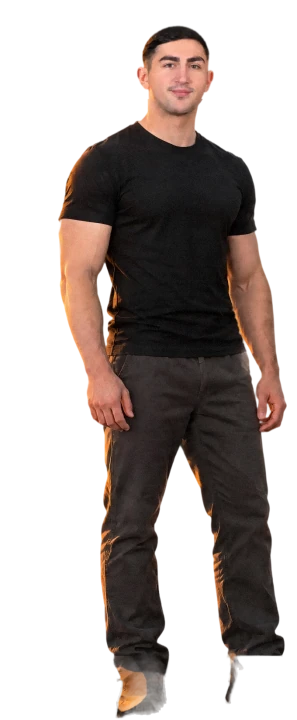
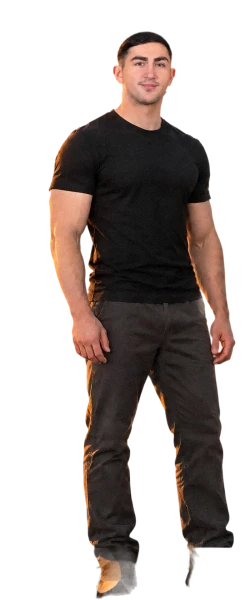
Winken: 64 Einzelbilder ohne Überblenden, Hand beim Heben komplett sichtbar, nachts heller

diff --git a/js/szene.js b/js/szene.js
@@ -522,12 +522,12 @@
      je Figur ein Tag- und ein Abendbild und für die Nacht die Bildfolge – der Hund hebt den Kopf und jault, Emre winkt
      („Tschüss“). Beides startet gemeinsam, sobald es Nacht ist und man weiterscrollt, und läuft dann in eigener Zeit ab
      (so sieht man es sicher, bevor endo Studio kommt); beim Hochscrollen läuft es rückwärts. */
-  var FIGUREN = { hund: { b: 318, h: 360, anzahl: 36, spalten: 6, fuss: 0.9921, oben: 0.0896, mitte: 0.4201, breite: 0.7716 }, emre: { b: 297, h: 720, anzahl: 30, spalten: 6, fuss: 0.9958, oben: 0.0364, mitte: 0.5801, breite: 0.7662 } };
-  var fig = { phase: 0, ziel: 0, laeuft: false, t: 0 }, FIG_DAUER = 3.6, lichtGold = 0, lichtBlau = 0, lichtNacht = 0;
+  var FIGUREN = { hund: { b: 318, h: 360, anzahl: 36, spalten: 6, fuss: 0.9921, oben: 0.0896, mitte: 0.4201, breite: 0.7716 }, emre: { b: 245, h: 600, anzahl: 64, spalten: 8, fuss: 0.9964, oben: 0.0531, mitte: 0.5794, breite: 0.7595 } };
+  var fig = { phase: 0, ziel: 0, laeuft: false, t: 0 }, FIG_DAUER = 4.4, lichtGold = 0, lichtBlau = 0, lichtNacht = 0;
   function figurLaden(name, folge) {
     var f = FIGUREN[name], b = new Image(); b.decoding = 'async';
     b.onload = function () { f[folge ? 'folge' : 'bild'] = b; f.zuletzt = ''; figurenZeichnen(); };
-    b.src = 'bilder/hero/figuren/' + name + (folge ? '-folge' : '') + '.webp?v=5';
+    b.src = 'bilder/hero/figuren/' + name + (folge ? '-folge' : '') + '.webp?v=6';
   }
   Object.keys(FIGUREN).forEach(function (k) { FIGUREN[k].zuletzt = ''; figurLaden(k, false); });
   /* die Bildfolgen (groß) erst nach dem Laden der Seite */
@@ -540,7 +540,7 @@
     tag:   { mul: [0.9, 0.91, 0.93], lift: [0, 0, 0], rim: [255, 246, 216], ra: 0.32 },
     gold:  { mul: [0.6, 0.46, 0.4], lift: [0.04, 0.02, 0.03], rim: [255, 182, 100], ra: 0.9 },
     blau:  { mul: [0.3, 0.34, 0.44], lift: [0.02, 0.03, 0.06], rim: [176, 196, 240], ra: 0.35 },
-    nacht: { mul: [0.2, 0.25, 0.37], lift: [0.03, 0.045, 0.08], rim: [170, 196, 255], ra: 0.6 }
+    nacht: { mul: [0.27, 0.32, 0.45], lift: [0.035, 0.05, 0.085], rim: [170, 196, 255], ra: 0.6 }
   };
   function figurLicht() {
     var l = { mul: [0, 0, 0], lift: [0, 0, 0], rim: [0, 0, 0], ra: 0 };
@@ -560,7 +560,8 @@
   function figurZeichnen(f, nr, l) {
     var c = f.leinwand; if (!c || !f.bild) return;
     if (!f.folge) nr = 0;
-    var n0 = Math.floor(nr), t = Math.round((nr - n0) * 12) / 12, n1 = Math.min(f.anzahl - 1, n0 + 1);
+    /* kein Überblenden zwischen Einzelbildern (das zeigte beim schnellen Heben zwei halbdurchsichtige Arme) – bei 64 Bildern läuft es so flüssig */
+    var n0 = Math.min(f.anzahl - 1, Math.round(nr)), t = 0, n1 = n0;
     var schluessel = n0 + '|' + t + '|' + lichtGold.toFixed(2) + '|' + lichtBlau.toFixed(2) + '|' + lichtNacht.toFixed(2);
     if (schluessel === f.zuletzt) return;
     f.zuletzt = schluessel;

diff --git a/index.html b/index.html
@@ -703,7 +703,7 @@ img { display: block; max-width: 100%; height: auto; }
   </nav>
 </footer>
 
-<script src="js/szene.js?v=24"></script>
+<script src="js/szene.js?v=25"></script>
 <script>
 /* Navigation beim Runterscrollen ausblenden, Inhalte einmal sanft einblenden */
 (function () {

diff --git a/LIESMICH.md b/LIESMICH.md
@@ -14,6 +14,11 @@
 
 
 
+
+## Winken mit 64 Bildern, ohne Überblenden (26.09.2026, 06:20, Claude Code)
+- `python figuren.py winken video/winken2-v1-4c32d096.mp4 0.4 4.9 64` (5. Argument = Bildanzahl): `emre-folge.webp` = 8 Spalten × 8 Zeilen à 248×600 (Qualität 80). Masken-Cache `video/winken-masken-winken2-v1-4-64.npz`.
+- `js/szene.js` (`?v=25`, Figuren `?v=6`): `figurZeichnen` nimmt `Math.round(nr)` (kein additives Zwischenbild mehr), `FIG_DAUER` 4,4 s, `FIGLICHT.nacht.mul` 0,27/0,32/0,45.
+
 ## Figuren: Licht zur Laufzeit (26.09.2026, 05:30, Claude Code)
 - `figuren.py` schreibt jetzt `bilder/hero/figuren/<name>.webp` (Bild 0, neutral) und `<name>-folge.webp` (Raster, neutral, `figuren_stil.neutral`: nur Glätten + Korn); die alten `-tag/-gold/-nacht` sind gelöscht. `mitte`/`breite` stehen direkt im json. Weiße Bewegungsränder (außerhalb 9-px-Innenrand, mn > 175, Sättigung < 0,12) und das 3-px-Kantenband werden per `cv2.inpaint` mit der Haut gefüllt statt aus der Maske entfernt. `szene.js?v=24`, Figuren `?v=5`.
 - `js/szene.js` (`?v=23`, Figuren `?v=4`): `FIGLICHT` (tag/gold/blau/nacht: `mul` multiplikativ, `lift` additiv, `rim` + `ra`), `figurLicht()` mischt sequentiell mit `lichtGold`, `lichtBlau` (= sanft 0,18–0,3), `lichtNacht` aus `licht()`. `figurZeichnen()`: Hilfsleinwände `lwA/lwB/lwC` – Bild (Zwischenbilder additiv) → Umriss merken → multiply + lighter + destination-in → Saum = Umriss minus versetzter Umriss (source-in Saumfarbe) mit Alpha `ra`. Cache-Schlüssel enthält die drei Lichtwerte (2 Stellen). `stand` 0,148 H (hoch 0,124).
